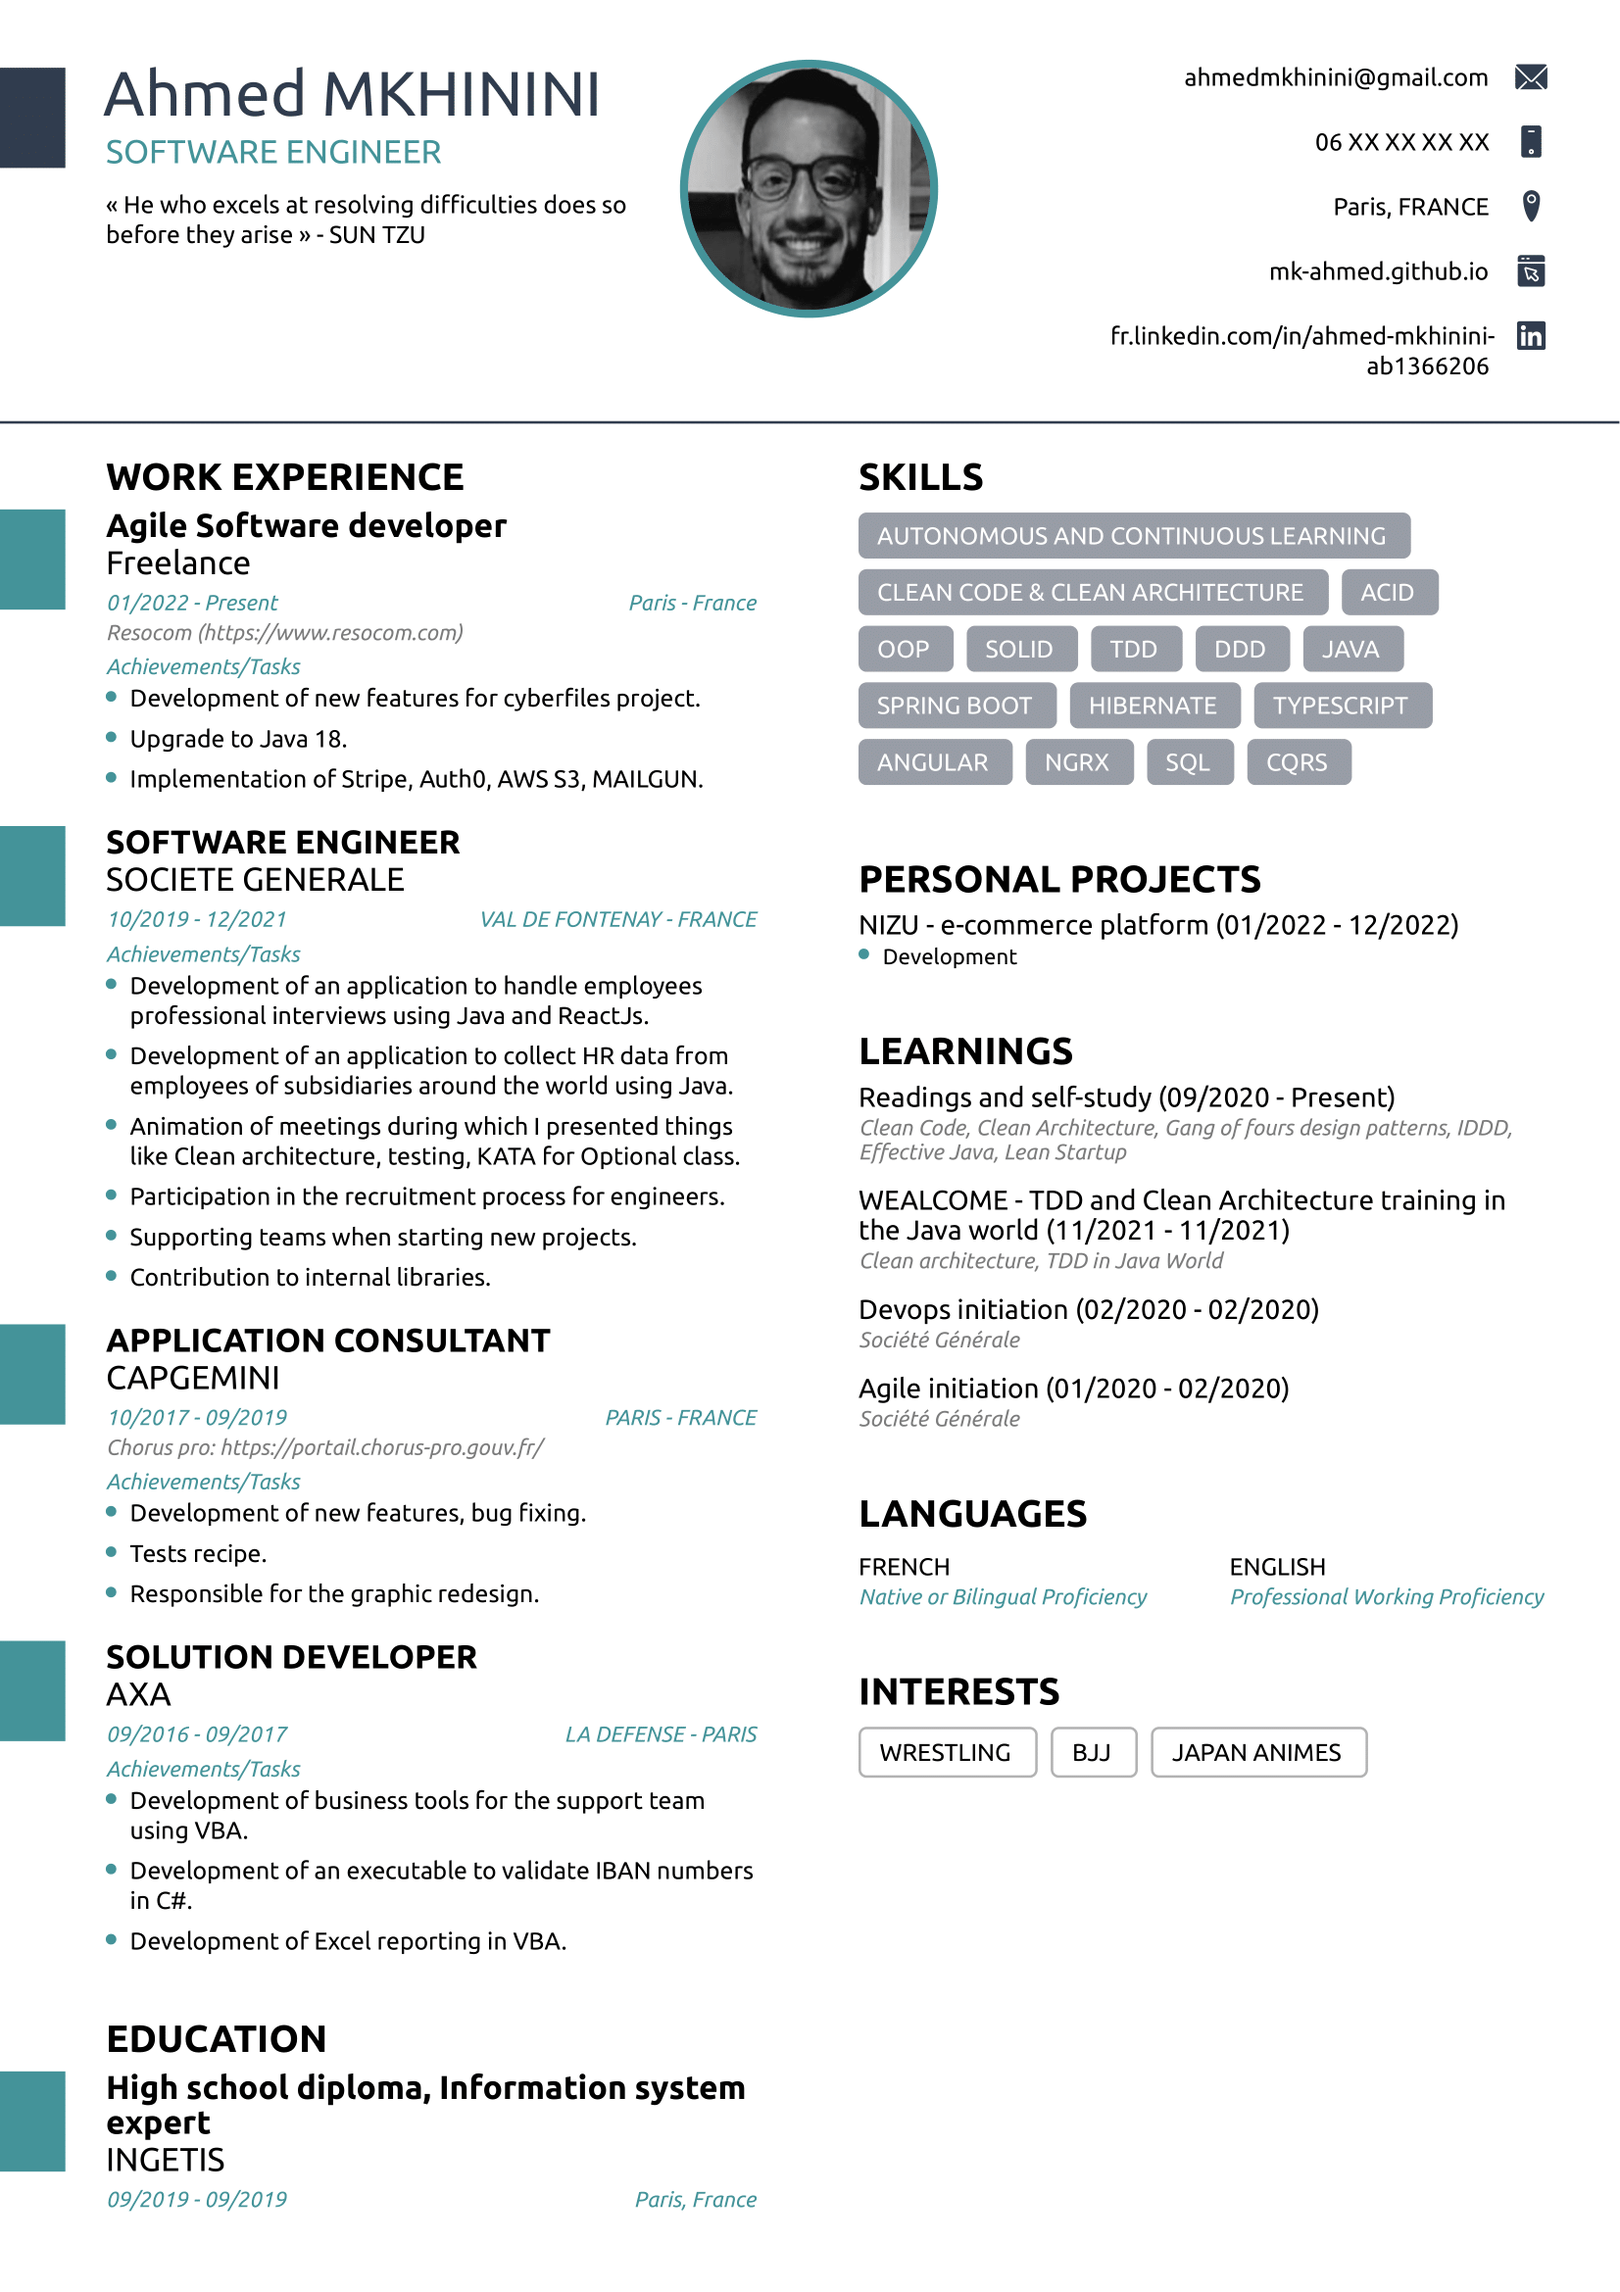
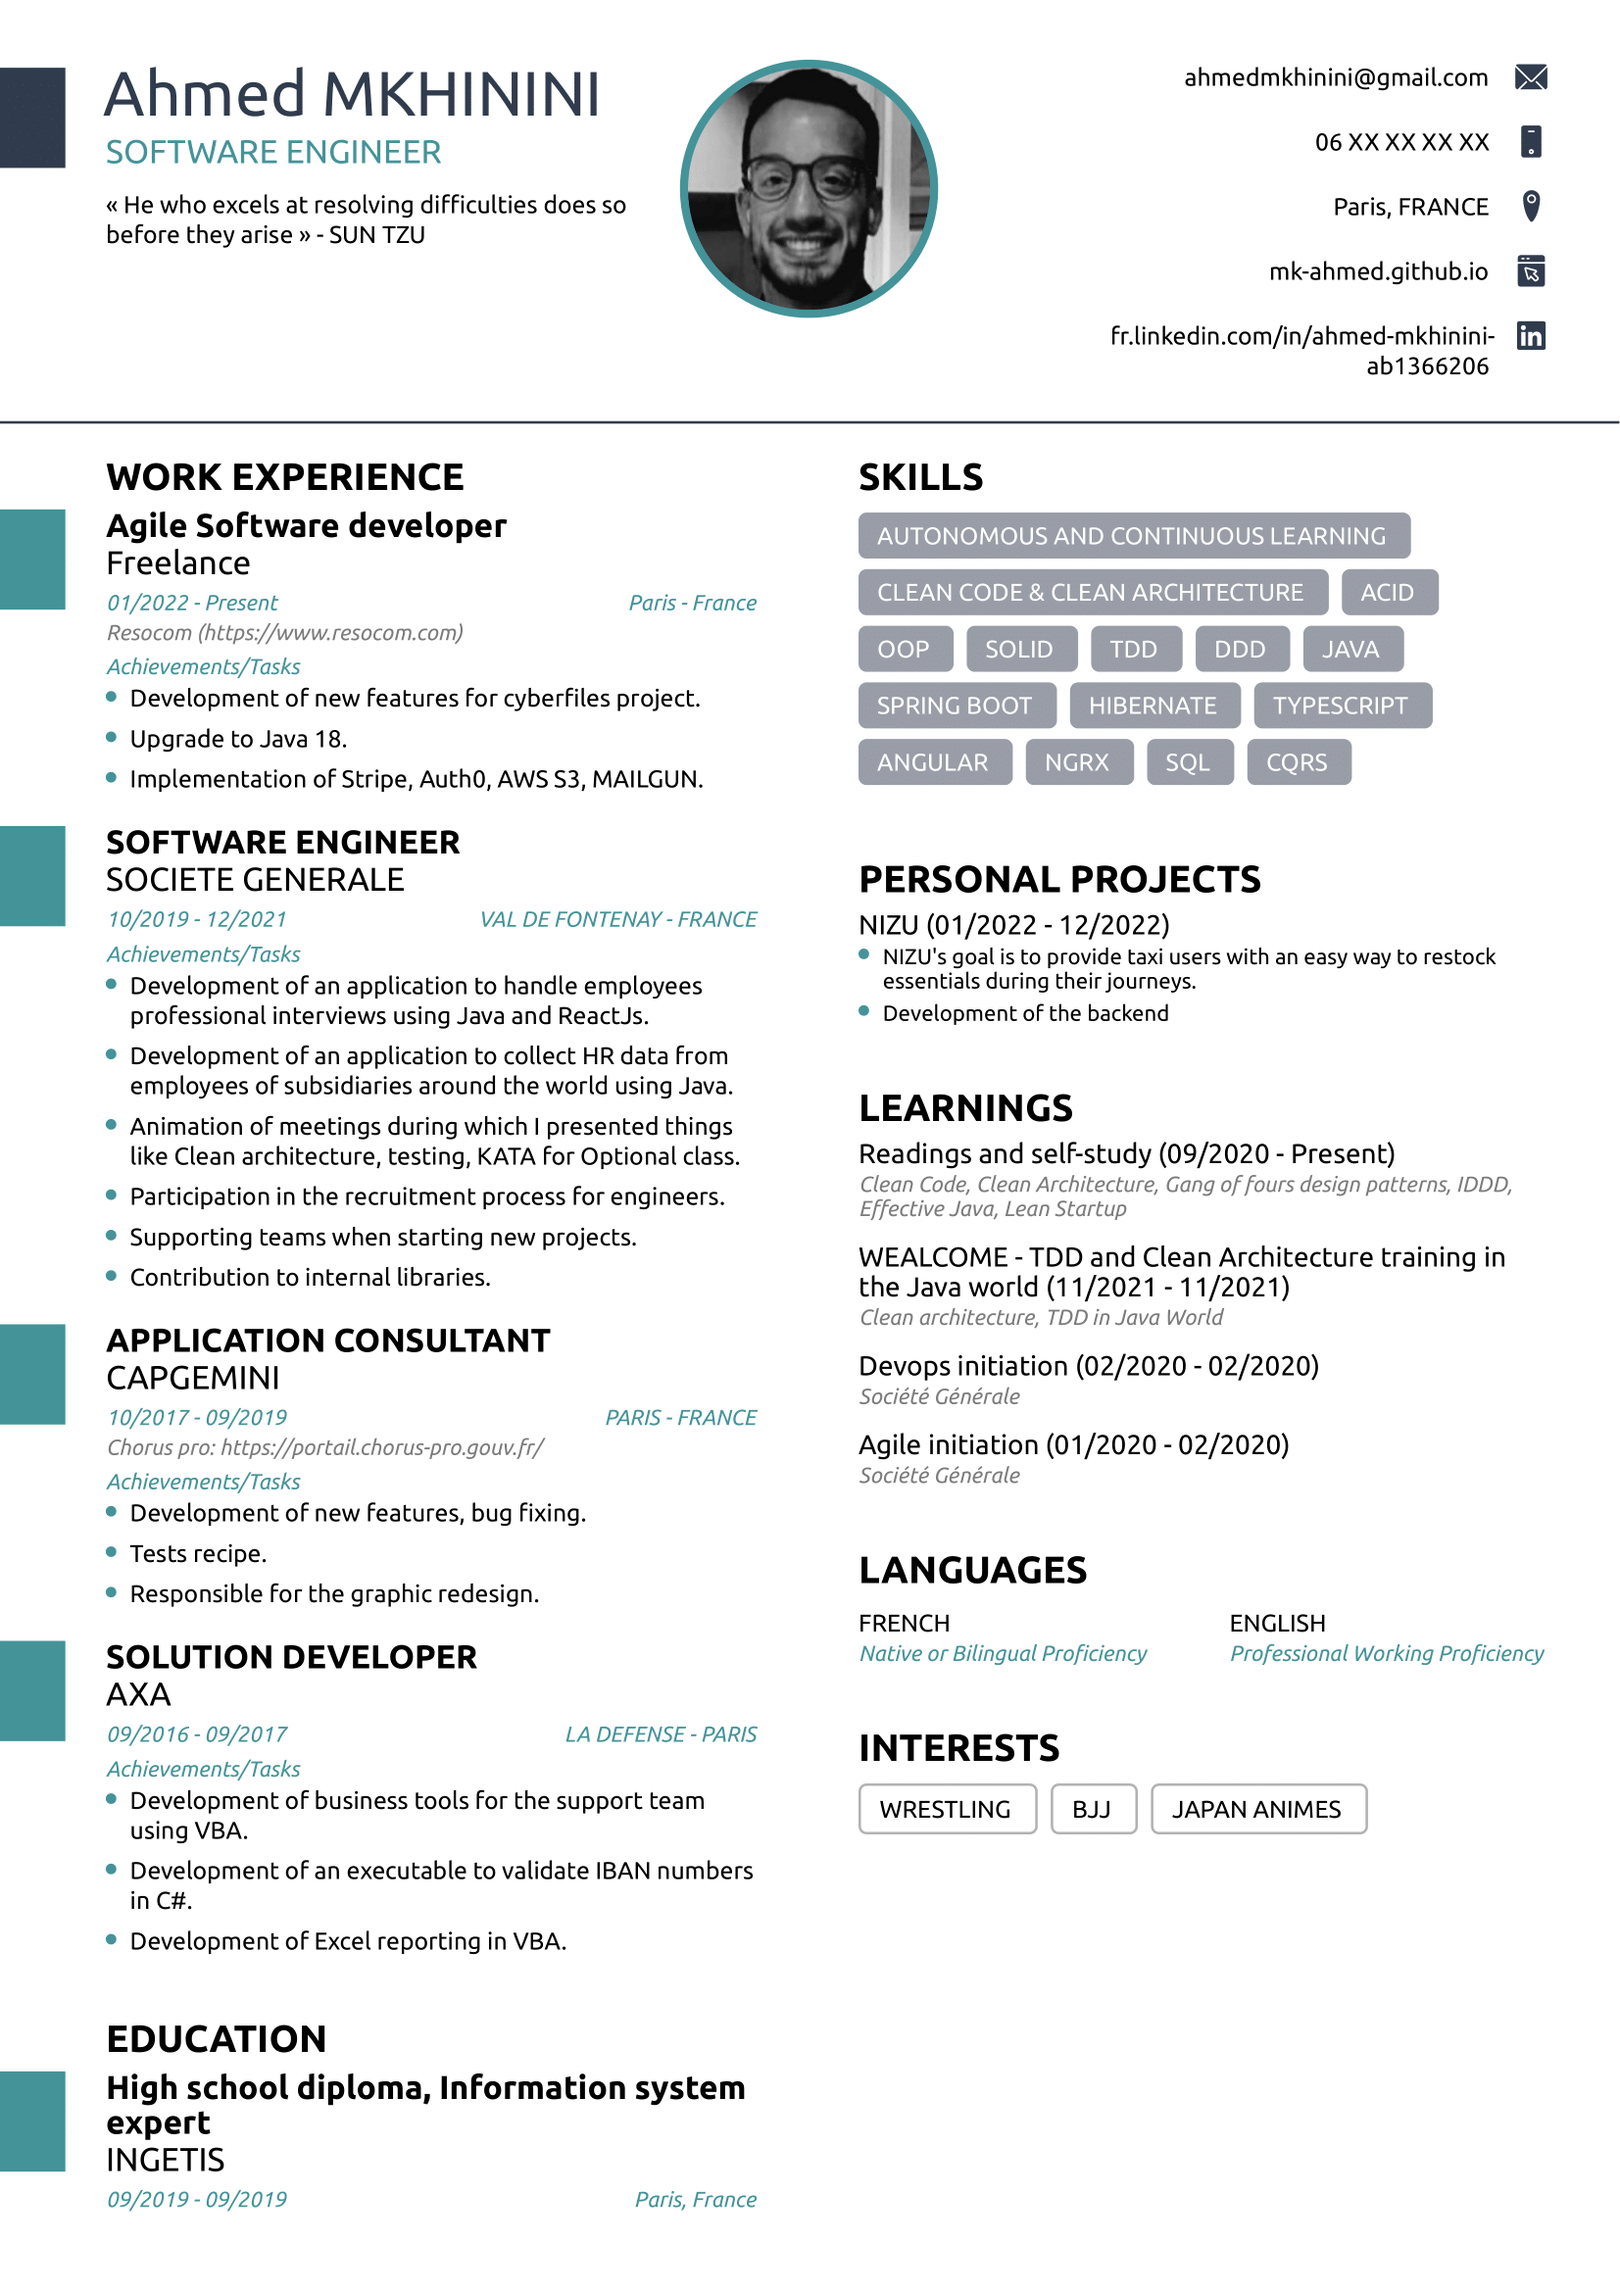
rework resume

Changed region(s): [[0.5245, 0.3745, 0.9256, 0.8115], [0.7713, 0.6866, 0.833, 0.7178], [0.8947, 0.6866, 0.9256, 0.7178]]

diff --git a/resume_fr.md b/resume_fr.md
@@ -62,6 +62,8 @@ Développeur agile
 # PERSONAL PROJECTS
 
 - NIZU - e-commerce
+  L'objectif de NIZU est de fournir aux utilisateurs de taxi un moyen facile de se réapprovisionner en produits essentiels pendant leurs trajets.
+- Développement du backend
 
 # LEARNINGS
 

diff --git a/resume_en.md b/resume_en.md
@@ -61,6 +61,8 @@ SOFTWARE ENGINEER
 # PERSONAL PROJECTS
 
 - NIZU - e-commerce
+  NIZU's goal is to provide taxi users with an easy way to restock essentials during their journeys.
+- Development of the backend
 
 # LEARNINGS
 
